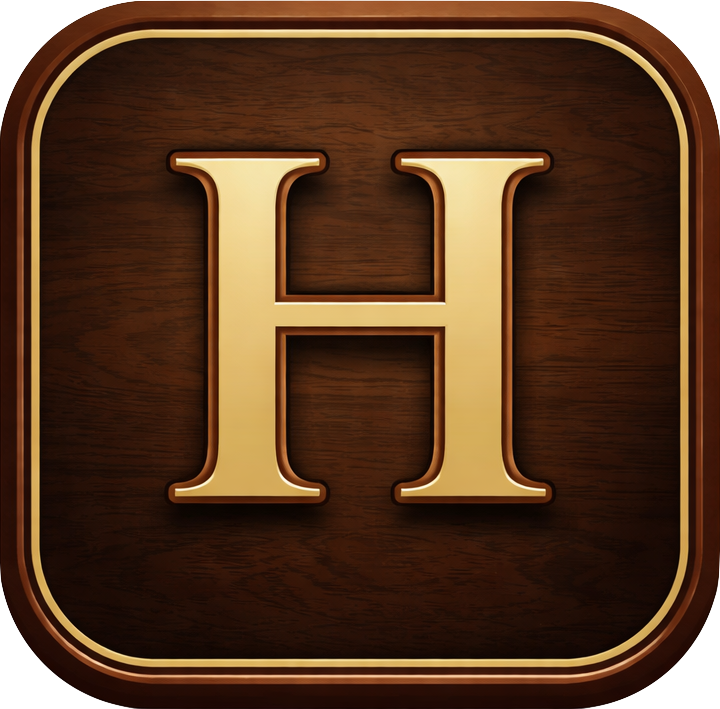
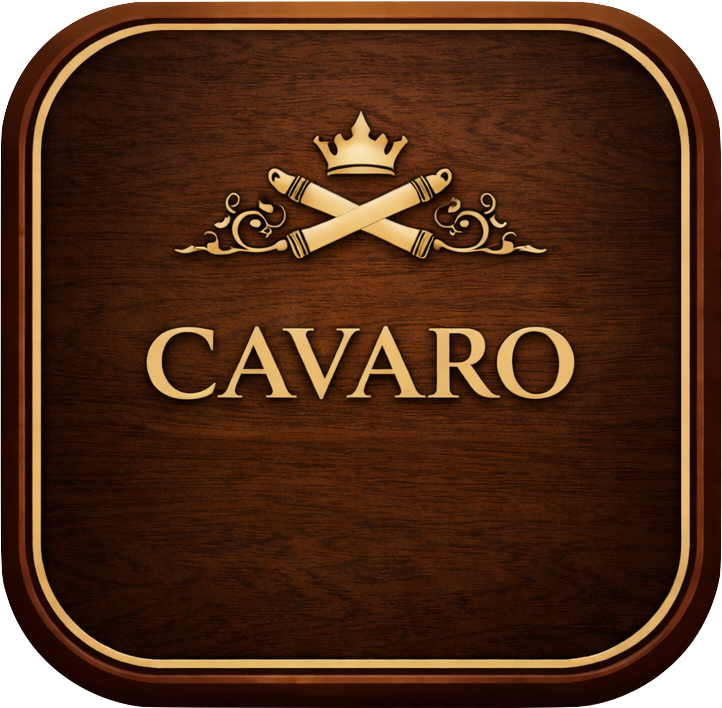
overall updates

diff --git a/pages/AddCigar.js b/pages/AddCigar.js
@@ -312,7 +312,7 @@ export default function AddCigar() {
         length: customSize.trim(),
         image: imageUrl,
       });
-      // Add to user's local humidor
+      // Add to user's local Cavaro
       const qty = Math.max(1, parseInt(customQuantity, 10) || 1);
       const dateToUse = dateAdded?.trim() || new Date().toISOString().slice(0, 10);
       await db.runAsync(
@@ -454,7 +454,7 @@ export default function AddCigar() {
               </View>
 
               <DatePickerField
-                label="Date added to humidor"
+                label="Date added to Cavaro"
                 value={dateAdded}
                 onChange={setDateAdded}
                 placeholder="Today"
@@ -502,7 +502,7 @@ export default function AddCigar() {
                 onPress={addFromCatalog}
                 disabled={!isCatalogValid}
               >
-                <Text style={[styles.primaryBtnText, !isCatalogValid && styles.primaryBtnTextDisabled]}>Add to Humidor</Text>
+                <Text style={[styles.primaryBtnText, !isCatalogValid && styles.primaryBtnTextDisabled]}>Add to Cavaro</Text>
               </Pressable>
 
               <Pressable style={styles.switchLink} onPress={() => setShowCustom(true)}>
@@ -513,7 +513,7 @@ export default function AddCigar() {
             <>
               <View style={styles.section}>
                 <Text style={styles.sectionTitle}>Add custom cigar</Text>
-                <Text style={styles.sectionSubtitle}>Add a new cigar to the catalog and your humidor</Text>
+                <Text style={styles.sectionSubtitle}>Add a new cigar to the catalog and your Cavaro</Text>
               </View>
 
               <View style={styles.field}>
@@ -567,7 +567,7 @@ export default function AddCigar() {
               </View>
 
               <DatePickerField
-                label="Date added to humidor"
+                label="Date added to Cavaro"
                 value={dateAdded}
                 onChange={setDateAdded}
                 placeholder="Today"
@@ -641,7 +641,7 @@ export default function AddCigar() {
                 onPress={addCustom}
                 disabled={!isCustomValid}
               >
-                <Text style={[styles.primaryBtnText, !isCustomValid && styles.primaryBtnTextDisabled]}>Add to Catalog & Humidor</Text>
+                <Text style={[styles.primaryBtnText, !isCustomValid && styles.primaryBtnTextDisabled]}>Add to Catalog & Cavaro</Text>
               </Pressable>
 
               <Pressable style={styles.switchLink} onPress={() => setShowCustom(false)}>

diff --git a/pages/Landing.js b/pages/Landing.js
@@ -33,12 +33,12 @@ export default function Landing({ onGetStarted, onSubscribe, onAlreadyHaveAccoun
           showsVerticalScrollIndicator={false}
         >
           <View style={styles.hero}>
-            <Text style={styles.logo}>Humidor</Text>
+            <Text style={styles.logo}>Cavaro</Text>
             <Text style={styles.tagline}>Your personal cigar companion</Text>
           </View>
 
           <View style={styles.whySection}>
-            <Text style={styles.sectionTitle}>Why Humidor?</Text>
+            <Text style={styles.sectionTitle}>Why Cavaro?</Text>
             <Text style={styles.sectionText}>
               Track your collection, log tasting notes, and discover drink pairings. Access a growing, community-built cigar database that expands with every contribution. Built for cigar enthusiasts who want to get the most from every smoke.
             </Text>

diff --git a/server/routes/feedback.js b/server/routes/feedback.js
@@ -33,13 +33,13 @@ router.post('/', async (req, res) => {
     }
 
     const typeLabel = type || 'General';
-    const subject = `[Humidor Feedback] ${typeLabel}: ${message.slice(0, 50)}${message.length > 50 ? '...' : ''}`;
+    const subject = `[Cavaro Feedback] ${typeLabel}: ${message.slice(0, 50)}${message.length > 50 ? '...' : ''}`;
     const html = `
       <p><strong>Type:</strong> ${typeLabel}</p>
       <p><strong>Message:</strong></p>
       <p>${message.trim().replace(/\n/g, '<br>')}</p>
       <hr>
-      <p style="color:#888;font-size:12px;">Sent from Humidor app</p>
+      <p style="color:#888;font-size:12px;">Sent from Cavaro app</p>
     `;
 
     await transporter.sendMail({

diff --git a/api/subscription.js b/api/subscription.js
@@ -1,8 +1,8 @@
 import { API_BASE_URL } from './config';
 
 // Deep links to return to app after Stripe Checkout (matches CFBundleURLSchemes in Info.plist)
-const SUBSCRIBE_SUCCESS_URL = 'com.glovermedia.humidor://subscribe-success';
-const SUBSCRIBE_CANCEL_URL = 'com.glovermedia.humidor://subscribe-cancel';
+const SUBSCRIBE_SUCCESS_URL = 'com.brannonglover.humidor://subscribe-success';
+const SUBSCRIBE_CANCEL_URL = 'com.brannonglover.humidor://subscribe-cancel';
 
 export async function createCheckoutSession(accessToken, successUrl, cancelUrl) {
   const res = await fetch(`${API_BASE_URL}/api/subscription/create-checkout`, {

diff --git a/pages/Humidor.js b/pages/Humidor.js
@@ -22,7 +22,7 @@ function Humidor({ navigation }) {
         <SafeAreaView style={styles.container}>
           <View style={styles.header}>
             <View>
-              <Text style={styles.title}>Humidor</Text>
+              <Text style={styles.title}>Cavaro</Text>
               <Text style={styles.subtitle}>Your collection</Text>
             </View>
             <View style={styles.headerRight}>

diff --git a/pages/Favorites.js b/pages/Favorites.js
@@ -18,7 +18,7 @@ function Favorites({ navigation }) {
         </View>
         <CigarList
           view={view}
-          onEditCigar={(cigar) => navigation.navigate('Humidor', { screen: 'EditCigar', params: { cigar } })}
+          onEditCigar={(cigar) => navigation.navigate('Cavaro', { screen: 'EditCigar', params: { cigar } })}
         />
       </SafeAreaView>
     </View>

diff --git a/pages/Dislikes.js b/pages/Dislikes.js
@@ -18,7 +18,7 @@ function Dislikes({ navigation }) {
         </View>
         <CigarList
           view={view}
-          onEditCigar={(cigar) => navigation.navigate('Humidor', { screen: 'EditCigar', params: { cigar } })}
+          onEditCigar={(cigar) => navigation.navigate('Cavaro', { screen: 'EditCigar', params: { cigar } })}
         />
       </SafeAreaView>
     </View>

diff --git a/components/SwipeableTabWrapper.js b/components/SwipeableTabWrapper.js
@@ -5,7 +5,7 @@ import { useNavigation } from '@react-navigation/native';
 import * as Haptics from 'expo-haptics';
 import colors from '../theme/colors';
 
-const TAB_ORDER = ['Humidor', 'Favorites', 'Dislikes', 'Pairing'];
+const TAB_ORDER = ['Cavaro', 'Favorites', 'Dislikes', 'Pairing'];
 const SWIPE_THRESHOLD = 50;
 const VELOCITY_THRESHOLD = 400;
 const SLIDE_DISTANCE = 24;

diff --git a/App.js b/App.js
@@ -17,7 +17,7 @@ const showAuthFlow = !!process.env.EXPO_PUBLIC_SUPABASE_URL;
 function LoadingScreen() {
   return (
     <View style={styles.loading}>
-      <Text style={styles.loadingTitle}>Humidor</Text>
+      <Text style={styles.loadingTitle}>Cavaro</Text>
       <ActivityIndicator size="large" color={colors.primary} style={styles.spinner} />
     </View>
   );

diff --git a/db/index.js b/db/index.js
@@ -1,5 +1,5 @@
 /**
- * Centralized database module for Humidor app.
+ * Centralized database module for Cavaro app.
  * Uses a single `cigars` table with a `collection` column instead of
  * three separate tables (humidor, likes, dislikes).
  * cigar_catalog: local cache/fallback when API is unavailable (see api/catalog.js).

diff --git a/pages/EditCigar.js b/pages/EditCigar.js
@@ -263,7 +263,7 @@ export default function EditCigar() {
           </View>
 
           <DatePickerField
-            label="Date added to humidor (optional)"
+            label="Date added to Cavaro (optional)"
             value={dateAdded}
             onChange={setDateAdded}
             placeholder="Tap to pick date"

diff --git a/api/config.js b/api/config.js
@@ -1,5 +1,5 @@
 /**
- * API base URL for the Humidor backend.
+ * API base URL for the Cavaro backend.
  * - iOS Simulator: localhost works (simulator shares host network)
  * - Android Emulator: use 10.0.2.2 for localhost
  * - Physical device: use your machine's LAN IP (e.g. 192.168.1.x)
